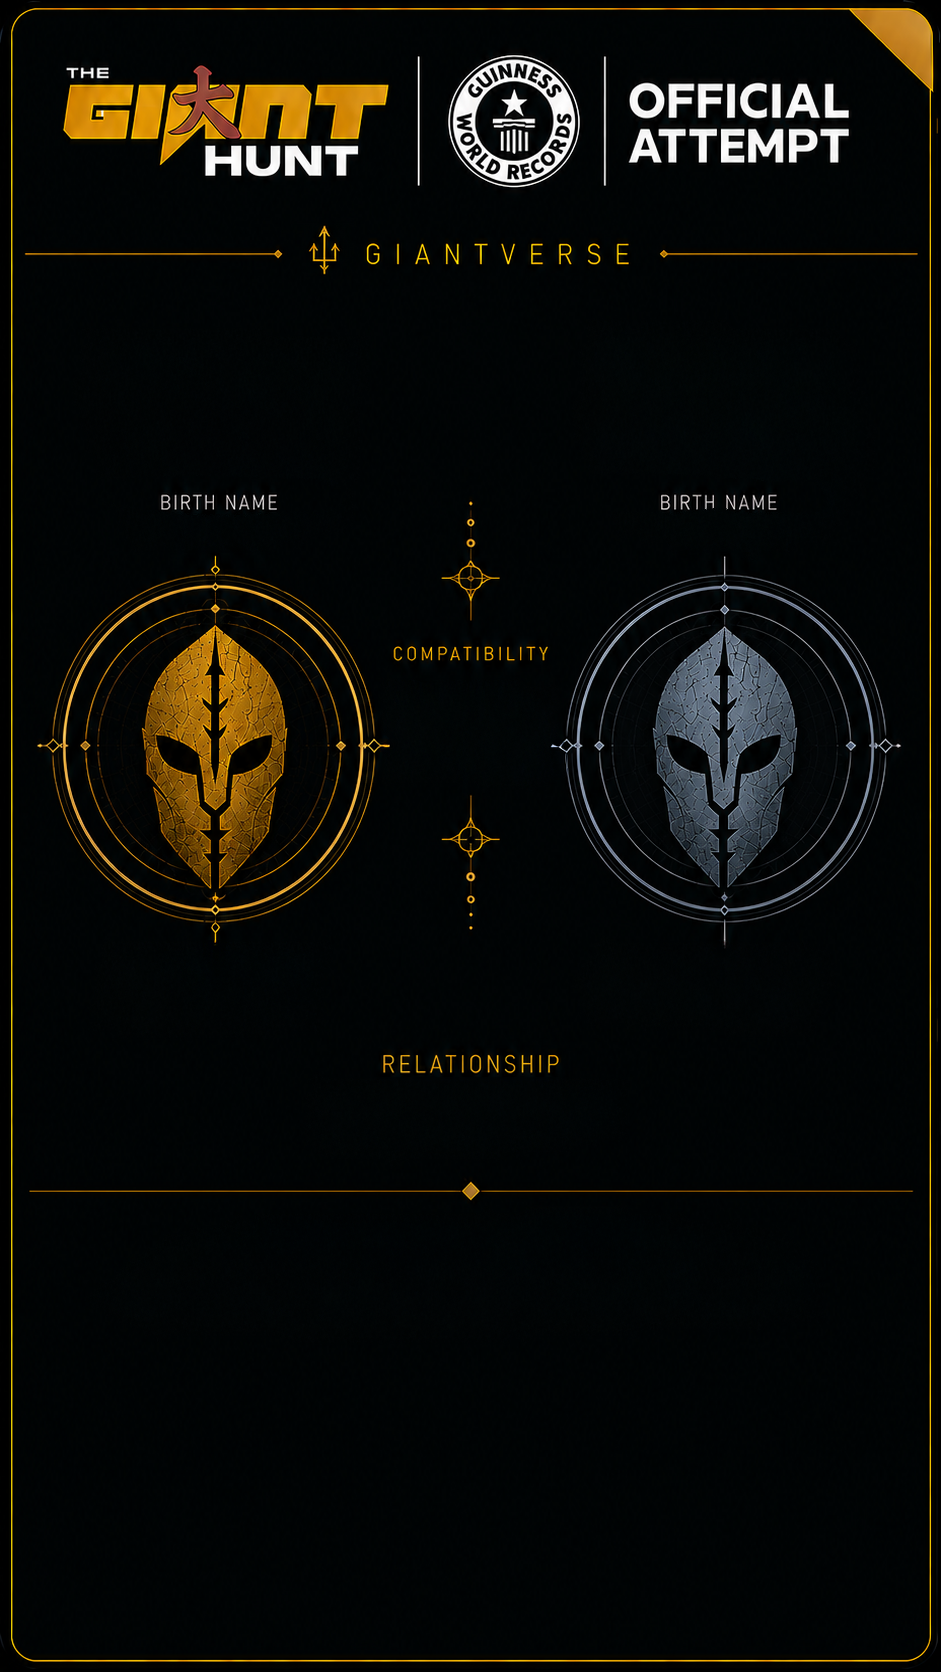
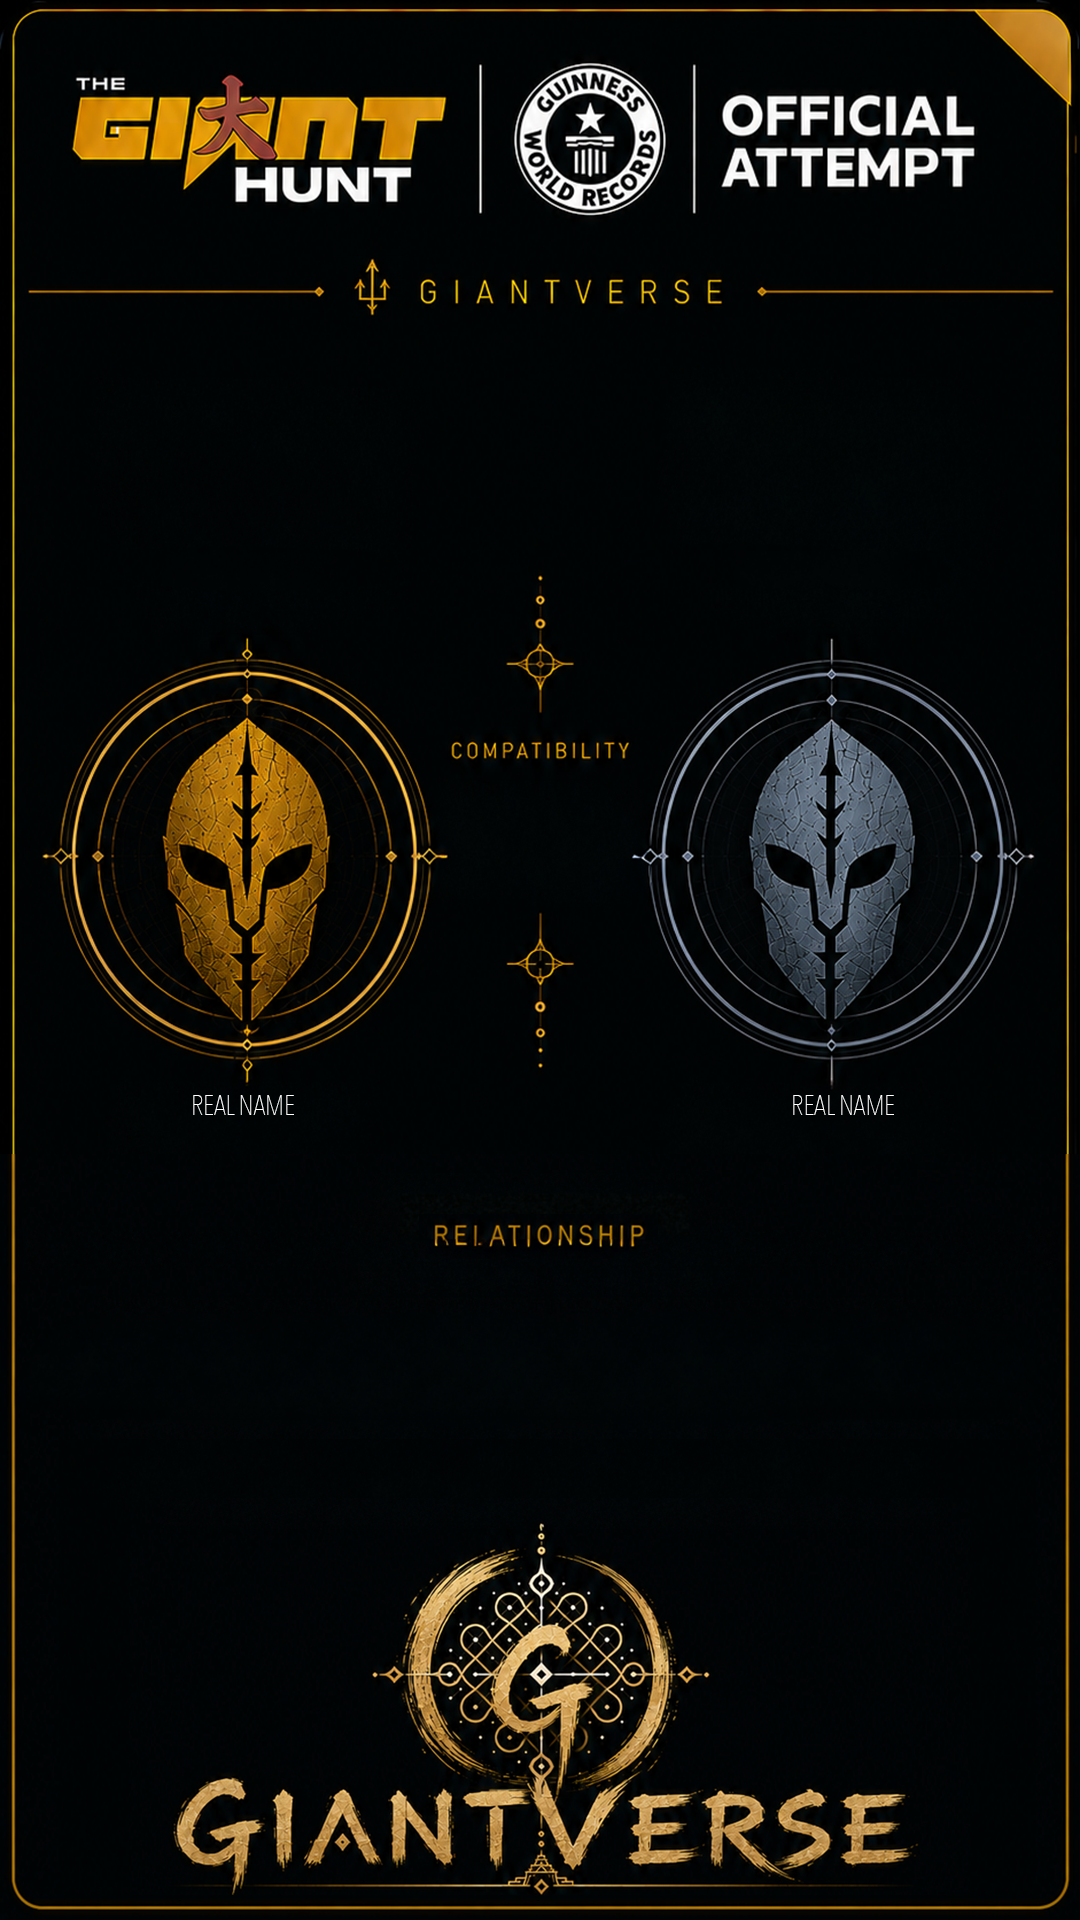
Compatibity Card Update

diff --git a/components/compatibility/CompatibilityShareCard.tsx b/components/compatibility/CompatibilityShareCard.tsx
@@ -3,11 +3,12 @@
 // CompatibilityShareCard — canvas-rendered share card for a Compatibility
 // Checker result, drawn on top of the official "Compatibility card_template.png"
 // (two portrait busts — gold for Side A, silver for Side B — under a shared
-// Giant Hunt / Guinness World Records header). Field layout below is
-// pixel-scanned from that 941x1672 template, mirroring the calibration
+// Giant Hunt / Guinness World Records header, with a decorative Giantverse
+// emblem filling the bottom ~23% of the card). Field layout below is
+// pixel-scanned from that 1080x1920 template, mirroring the calibration
 // approach used by src/lib/card-generator.ts for the identity card.
 
-import { useCallback, useState } from "react";
+import { useEffect, useRef, useState } from "react";
 import type { CompatibilityResult } from "@/engines/compatibility/compatibility.engine";
 
 const GOLD = "#C9A24B";
@@ -21,6 +22,14 @@ const ROLE_COLOR: Record<CompatibilityResult["role"], string> = {
   Romance: "#D97BA0",
   Rival: "#D98E3B",
   Villain: "#B4543F",
+};
+
+const ROLE_PLURAL: Record<CompatibilityResult["role"], string> = {
+  Ally: "Allies",
+  Mentor: "Mentors",
+  Romance: "Romances",
+  Rival: "Rivals",
+  Villain: "Villains",
 };
 
 function loadImage(src: string): Promise<HTMLImageElement | null> {
@@ -44,11 +53,16 @@ function extractBirthName(fullName: string, romaji: string): string {
   return fullName;
 }
 
-async function renderCompatibilityCard(result: CompatibilityResult): Promise<HTMLCanvasElement> {
+// invitedByRealName — when set, Side B is the friend who arrived via a
+// shared invite link, and this is the real name (remembered from the
+// invite link's &name= param) of whoever shared it. Attributed only on
+// Side B's column, since that's the only side that can ever be "someone
+// who was invited" in the current flows.
+async function renderCompatibilityCard(result: CompatibilityResult, invitedByRealName?: string): Promise<HTMLCanvasElement> {
   const canvas = document.createElement("canvas");
   const template = await loadImage("/Compatibility card_template.png");
-  const W = template ? template.naturalWidth : 941;
-  const H = template ? template.naturalHeight : 1672;
+  const W = template ? template.naturalWidth : 1080;
+  const H = template ? template.naturalHeight : 1920;
   canvas.width = W;
   canvas.height = H;
   const ctx = canvas.getContext("2d")!;
@@ -77,38 +91,66 @@ async function renderCompatibilityCard(result: CompatibilityResult): Promise<HTM
   };
 
   // ── COLUMN LAYOUT ─────────────────────────────────────────────────
-  // Left (gold) bust centered at x=23.2%, right (silver) bust at x=76.3%
-  // (pixel-scanned from the "BIRTH NAME" labels baked into the template,
-  // which sit directly above each bust). Both share the same vertical
-  // rhythm: big Legacy Name in the gap above the label, small Birth Name
-  // value just below it.
+  // Left (gold) bust centered at x=22.5%, right (silver) bust at x=78.1%
+  // (pixel-scanned from the "REAL NAME" labels baked into the template,
+  // which now sit directly BELOW each bust — this template dropped the
+  // old "BIRTH NAME"-above-the-bust layout entirely). Big Legacy Name
+  // fills the large gap above the bust; the Real Name value sits just
+  // below the baked-in label.
   const columns = [
-    { x: px(0.2323), name: result.nameA, romaji: result.archetypeA.romajiName, color: GOLD, dim: GOLD_DIM },
-    { x: px(0.7631), name: result.nameB, romaji: result.archetypeB.romajiName, color: SILVER, dim: SILVER_DIM },
+    { x: px(0.225), name: result.nameA, romaji: result.archetypeA.romajiName, color: GOLD, dim: GOLD_DIM, attribution: undefined as string | undefined },
+    { x: px(0.7806), name: result.nameB, romaji: result.archetypeB.romajiName, color: SILVER, dim: SILVER_DIM, attribution: invitedByRealName },
   ];
 
-  const nameTopY = py(0.1513);       // top divider under the "GIANTVERSE" wordmark
-  const labelTopY = py(0.2960);      // top of the baked-in "BIRTH NAME" label
-  const labelBottomY = py(0.3044);   // bottom of that label
-  const bustTopY = py(0.341);        // where the bust art begins
-  const colMaxW = px(0.34);
+  const nameTopY = py(0.1516);        // top divider under the "GIANTVERSE" wordmark
+  const bustTopY = py(0.337);         // where the bust art begins
+  const realNameLabelBottomY = py(0.5802); // bottom of the baked-in "REAL NAME" label
+  const realNameZoneBottomY = py(0.615);   // safe cutoff before the "RELATIONSHIP" label
+  const colMaxW = px(0.32);
 
   for (const col of columns) {
-    // Legacy Name — large, vertically centered in the gap above the label.
+    // "GIANTVERSE NAME" — small field label (matches the template's own
+    // field-label styling) so the big name isn't just unlabeled decoration
+    // under the wordmark divider.
+    const gvLabelZoneH = (bustTopY - nameTopY) * 0.15;
+    ctx.font = `600 ${Math.round(W * 0.0115)}px Helvetica, Arial`;
+    ctx.fillStyle = "#8A8478";
+    ctx.fillText("GIANTVERSE NAME", col.x, nameTopY + gvLabelZoneH * 0.72);
+
+    // Legacy Name — large, vertically centered in the remaining gap above the bust.
+    const legacyZoneTop = nameTopY + gvLabelZoneH;
     const legacyFont = fitFont(col.name.toUpperCase(), Math.round(W * 0.052), colMaxW, "bold");
     const capHeight = legacyFont * 0.72;
-    const baselineY = nameTopY + (labelTopY - nameTopY + capHeight) / 2;
+    const baselineY = legacyZoneTop + (bustTopY - legacyZoneTop + capHeight) / 2;
     ctx.font = `bold ${legacyFont}px Georgia, serif`;
     ctx.fillStyle = col.color;
     ctx.fillText(col.name.toUpperCase(), col.x, baselineY);
 
-    // Birth Name — small, real-world first name, between the label and bust art.
-    const birthName = extractBirthName(col.name, col.romaji);
-    const birthFont = fitFont(birthName.toUpperCase(), Math.round(W * 0.022), colMaxW, "");
-    const birthY = labelBottomY + (bustTopY - labelBottomY) * 0.62;
-    ctx.font = `${birthFont}px Helvetica, Arial`;
-    ctx.fillStyle = col.dim;
-    ctx.fillText(birthName.toUpperCase(), col.x, birthY);
+    // Real Name — the actual first name, below the baked-in "REAL NAME"
+    // label. When this column belongs to whoever was invited, a second,
+    // smaller line credits who invited them — both compressed to fit
+    // ahead of the "RELATIONSHIP" section.
+    const realName = extractBirthName(col.name, col.romaji);
+    if (col.attribution) {
+      const nameFont = fitFont(realName.toUpperCase(), Math.round(W * 0.019), colMaxW, "");
+      const nameY = realNameLabelBottomY + (realNameZoneBottomY - realNameLabelBottomY) * 0.42;
+      ctx.font = `${nameFont}px Helvetica, Arial`;
+      ctx.fillStyle = col.dim;
+      ctx.fillText(realName.toUpperCase(), col.x, nameY);
+
+      const attrText = `Invited by ${col.attribution}`;
+      const attrFont = fitFont(attrText, Math.round(W * 0.0135), colMaxW, "italic");
+      const attrY = realNameLabelBottomY + (realNameZoneBottomY - realNameLabelBottomY) * 0.85;
+      ctx.font = `italic ${attrFont}px Georgia, serif`;
+      ctx.fillStyle = col.color;
+      ctx.fillText(attrText, col.x, attrY);
+    } else {
+      const nameFont = fitFont(realName.toUpperCase(), Math.round(W * 0.022), colMaxW, "");
+      const nameY = realNameLabelBottomY + (realNameZoneBottomY - realNameLabelBottomY) * 0.55;
+      ctx.font = `${nameFont}px Helvetica, Arial`;
+      ctx.fillStyle = col.dim;
+      ctx.fillText(realName.toUpperCase(), col.x, nameY);
+    }
   }
 
   // ── COMPATIBILITY % — the gap between the "COMPATIBILITY" label and
@@ -123,34 +165,36 @@ async function renderCompatibilityCard(result: CompatibilityResult): Promise<HTM
   ctx.fillStyle = roleColor;
   ctx.fillText(`${result.percentage}%`, px(0.5), pctBaseline);
 
-  // ── RELATIONSHIP — role, descriptor, mentor/mentee and tagline fill
-  // the blank band below the "RELATIONSHIP" divider (71.5%–99%).
-  let cy = py(0.755);
+  // ── RELATIONSHIP — role, descriptor, mentor/mentee and tagline fill the
+  // band below the "RELATIONSHIP" divider (~65.9%), now much tighter than
+  // before since it has to clear the decorative Giantverse emblem that
+  // fills the bottom ~23% of this template (starts around 76.5%).
+  let cy = py(0.672);
   const contentMaxW = px(0.8);
 
-  ctx.font = `700 ${Math.round(W * 0.075)}px Georgia, serif`;
+  ctx.font = `700 ${Math.round(W * 0.052)}px Georgia, serif`;
   ctx.fillStyle = roleColor;
   ctx.fillText(result.role.toUpperCase(), px(0.5), cy);
-  cy += W * 0.05;
+  cy += W * 0.019;
 
-  ctx.font = `600 ${Math.round(W * 0.028)}px Helvetica, Arial`;
+  ctx.font = `600 ${Math.round(W * 0.018)}px Helvetica, Arial`;
   ctx.fillStyle = "#EFE9DA";
   ctx.fillText(`${result.descriptor} ${result.role}`, px(0.5), cy);
-  cy += W * 0.045;
+  cy += W * 0.015;
 
   if (result.mentor && result.mentee) {
-    ctx.font = `600 ${Math.round(W * 0.022)}px Helvetica, Arial`;
+    ctx.font = `600 ${Math.round(W * 0.013)}px Helvetica, Arial`;
     ctx.fillStyle = roleColor;
     ctx.fillText(`${result.mentor.name} is the Mentor · ${result.mentee.name} is the Mentee`, px(0.5), cy);
-    cy += W * 0.04;
+    cy += W * 0.014;
   }
 
-  cy += W * 0.015;
-  ctx.font = `${Math.round(W * 0.024)}px Georgia, serif`;
+  cy += W * 0.008;
+  ctx.font = `${Math.round(W * 0.013)}px Georgia, serif`;
   ctx.fillStyle = "#8A8478";
   const words = result.tagline.split(" ");
   let line = "";
-  const lineH = W * 0.032;
+  const lineH = W * 0.018;
   for (const word of words) {
     const test = line ? `${line} ${word}` : word;
     if (ctx.measureText(test).width > contentMaxW && line) {
@@ -163,50 +207,73 @@ async function renderCompatibilityCard(result: CompatibilityResult): Promise<HTM
   }
   if (line) ctx.fillText(line, px(0.5), cy);
 
-  // ── FOOTER BRAND ──────────────────────────────────────────────────
-  ctx.font = `600 ${Math.round(W * 0.021)}px Georgia, serif`;
-  ctx.fillStyle = GOLD;
-  ctx.fillText("giantverse.com", px(0.5), py(0.975));
-
   return canvas;
 }
 
-export function CompatibilityShareCard({ result }: { result: CompatibilityResult }) {
-  const [busy, setBusy] = useState(false);
+export function CompatibilityShareCard({ result, invitedByRealName }: { result: CompatibilityResult; invitedByRealName?: string }) {
   const [preview, setPreview] = useState<string | null>(null);
+  const [linkCopied, setLinkCopied] = useState(false);
+  const canvasRef = useRef<HTMLCanvasElement | null>(null);
 
-  const generate = useCallback(async () => {
-    setBusy(true);
-    try {
-      const canvas = await renderCompatibilityCard(result);
+  // Renders as soon as a result exists — the card is the result, not an
+  // optional extra step behind a button.
+  useEffect(() => {
+    let cancelled = false;
+    setPreview(null);
+    canvasRef.current = null;
+    renderCompatibilityCard(result, invitedByRealName).then((canvas) => {
+      if (cancelled) return;
+      canvasRef.current = canvas;
       setPreview(canvas.toDataURL("image/png"));
-      canvas.toBlob((blob) => {
-        if (!blob) return;
-        const url = URL.createObjectURL(blob);
-        const a = document.createElement("a");
-        a.href = url;
-        a.download = `giant-hunt-compatibility-${result.role.toLowerCase()}.png`;
-        a.click();
-        URL.revokeObjectURL(url);
-      }, "image/png");
-    } finally {
-      setBusy(false);
+    });
+    return () => {
+      cancelled = true;
+    };
+  }, [result, invitedByRealName]);
+
+  // Invites whoever "Side B" is to take the survey and get their own
+  // Legacy Name — carries the same ?invite=&name= payload the /ending
+  // invite flow uses, so they land on the personalized compatibility
+  // landing page once they click through.
+  async function handleInviteFriend() {
+    if (typeof window === "undefined") return;
+    const birthNameA = extractBirthName(result.nameA, result.archetypeA.romajiName);
+    const birthNameB = extractBirthName(result.nameB, result.archetypeB.romajiName);
+    const params = new URLSearchParams({ invite: result.nameA, name: birthNameA });
+    const url = `${window.location.origin}/compatibility?${params.toString()}`;
+    const shareText = `Myself ${birthNameA} and ${birthNameB} are found ${ROLE_PLURAL[result.role]} in Giantverse. I am curious how we are related in Giantverse. Take this survey to get your Giantverse identity. It is Fun and accurate.`;
+    if (navigator.share) {
+      try {
+        await navigator.share({ title: "Giant Hunt Compatibility", text: shareText, url });
+        return;
+      } catch {
+        // user cancelled the share sheet — fall through to clipboard copy
+      }
     }
-  }, [result]);
+    try {
+      await navigator.clipboard.writeText(`${shareText}\n${url}`);
+      setLinkCopied(true);
+      setTimeout(() => setLinkCopied(false), 2500);
+    } catch {
+      // clipboard unavailable — nothing more we can do without a fallback UI
+    }
+  }
 
   return (
     <div className="txt-center">
-      {preview && (
+      {preview ? (
         // eslint-disable-next-line @next/next/no-img-element
         <img
           src={preview}
           alt="Compatibility share card preview"
           className="m-auto mb-3"
-          style={{ maxWidth: 220, borderRadius: 8, border: "1px solid #3a2f12" }}
+          style={{ width: "100%", maxWidth: 460, borderRadius: 8, border: "1px solid #3a2f12" }}
         />
+      ) : (
+        <p className="f-12 mb-3" style={{ color: "#6E695F" }}>Rendering your card…</p>
       )}
-      <button type="button" className="btn bdr-rds2" onClick={generate} disabled={busy} style={{ cursor: busy ? "wait" : "pointer" }}>
-        {busy ? "Rendering…" : "⬇ Share This Result"}
+      <button type="button" className="btn bdr-rds2" onClick={handleInviteFriend}>
+        {linkCopied ? "✓ Copied!" : "🔗 Invite Friend"}
       </button>
     </div>
   );

diff --git a/components/compatibility/CompatibilityChecker.tsx b/components/compatibility/CompatibilityChecker.tsx
@@ -26,6 +26,17 @@ import { useInviteStore } from "@/stores/invite.store";
 import { useSessionStore } from "@/stores/session.store";
 import { CompatibilityShareCard } from "./CompatibilityShareCard";
 
+// Some share targets (notably how certain messaging apps merge the Web
+// Share API's text and url fields before the link is opened) can corrupt
+// the "name" param into a long run-on string. A real first name is short
+// and plain — anything longer or sentence-shaped falls back to the Legacy
+// Name instead of rendering garbage as the page's headline.
+function sanitizeRealName(raw: string): string | undefined {
+  const trimmed = raw.trim();
+  if (!trimmed || trimmed.length > 30 || /[.:\n]/.test(trimmed)) return undefined;
+  return trimmed;
+}
+
 // Splits a full Legacy Name ("Teyuka Kanryō") into its Birth Name and
 // archetype, so an invite link's inviter can be shown/locked as Side A.
 function parseLegacyName(fullName: string): { birthName: string; archetypeId: string } | null {
@@ -35,22 +46,6 @@ function parseLegacyName(fullName: string): { birthName: string; archetypeId: st
   const birthName = tokens.slice(0, -1).join(" ") || tokens[0];
   return { birthName, archetypeId: archetype.id };
 }
-
-const ROLE_COLOR: Record<CompatibilityResult["role"], string> = {
-  Ally: "#C9A24B",
-  Mentor: "#7B8FA3",
-  Romance: "#D97BA0",
-  Rival: "#D98E3B",
-  Villain: "#B4543F",
-};
-
-const ROLE_ICON: Record<CompatibilityResult["role"], string> = {
-  Ally: "🤝",
-  Mentor: "🧭",
-  Romance: "💫",
-  Rival: "⚔️",
-  Villain: "◆",
-};
 
 const ARCHETYPE_OPTIONS = Object.values(ARCHETYPE_DEFINITIONS).sort((a, b) => a.label.localeCompare(b.label));
 
@@ -85,7 +80,7 @@ export function CompatibilityChecker() {
     setPending({
       inviterName: decoded,
       inviterArchetypeLabel: archetype.label,
-      inviterRealName: realName ? decodeURIComponent(realName) : undefined,
+      inviterRealName: realName ? sanitizeRealName(decodeURIComponent(realName)) : undefined,
     });
   }, [searchParams, pending, setPending]);
 
@@ -147,11 +142,11 @@ export function CompatibilityChecker() {
             <div className="txt-center mb-5">
               <p className="f-10 txt-thm-clr-6 txt-upp letter-spacing2 mb-1">You&apos;ve Been Invited</p>
               <h1 className="h2 fw-600 mb-3" style={{ color: "#EFE9DA", fontFamily: "Georgia, serif" }}>
-                {inviterDisplayName}{" "}wants to know how you&apos;re related to them in the Giantverse
+                {inviterDisplayName}{" "}wants to know your Giantverse connection
               </h1>
               <p className="mxw-450 m-auto f-13 txt-thm-clr-70-2 line-ht-20 mb-4">
-                If you already have a Giantverse identity, enter your full name here. Otherwise, create one by
-                taking this survey — it&apos;s fun!
+                Already have a Giantverse identity? Enter it below to check instantly. New here? Take the short
+                survey to create one — it&apos;s fun!
               </p>
               <button type="button" className="btn bdr-rds2 me-2" onClick={() => router.push("/birth")}>
                 Take the Survey
@@ -253,34 +248,8 @@ export function CompatibilityChecker() {
 
           {displayResult && (
             <div className="txt-center">
-              <div
-                className="wht-cont p-4 mb-4"
-                style={{ border: `1px solid ${ROLE_COLOR[displayResult.role]}` }}
-              >
-                <p className="f-12 txt-thm-clr-70-2 mb-1">
-                  {displayResult.archetypeA.label} ({displayResult.archetypeA.romajiName}) <span style={{ color: "#6E695F" }}>×</span>{" "}
-                  {displayResult.archetypeB.label} ({displayResult.archetypeB.romajiName})
-                </p>
-
-                <p style={{ fontSize: 40, margin: "12px 0 4px" }}>{ROLE_ICON[displayResult.role]}</p>
-                <h2 className="serif" style={{ color: ROLE_COLOR[displayResult.role], fontFamily: "Georgia, serif", fontSize: 34, margin: 0 }}>
-                  {displayResult.role}
-                </h2>
-                <p className="f-14 fw-700 mt-1" style={{ color: "#EFE9DA" }}>
-                  {displayResult.percentage}% — {displayResult.descriptor} {displayResult.role}
-                </p>
-
-                {displayResult.mentor && displayResult.mentee && (
-                  <p className="f-12 mt-2" style={{ color: ROLE_COLOR[displayResult.role] }}>
-                    {displayResult.mentor.name} is the Mentor · {displayResult.mentee.name} is the Mentee
-                  </p>
-                )}
-
-                <p className="f-13 txt-thm-clr-70-2 line-ht-20 mt-3 mxw-385 m-auto">{displayResult.tagline}</p>
-              </div>
-
               <div className="mb-4">
-                <CompatibilityShareCard result={displayResult} />
+                <CompatibilityShareCard result={displayResult} invitedByRealName={pending?.inviterRealName} />
               </div>
 
               <button type="button" className="btn-outline bdr-rds2" onClick={handleReset}>

diff --git a/components/experience/DrawingInvitation.tsx b/components/experience/DrawingInvitation.tsx
@@ -34,7 +34,7 @@ export function DrawingInvitation() {
     const params = new URLSearchParams({ invite: legacyName });
     if (firstName) params.set("name", firstName);
     const url = `${window.location.origin}/compatibility?${params.toString()}`;
-    const shareText = `I just became ${legacyName} in the Giantverse. Reveal your own Legacy Name and see how we match up:`;
+    const shareText = `Check your Giantverse connection with ${firstName || legacyName}:`;
     if (navigator.share) {
       try {
         await navigator.share({ title: "Giant Hunt Compatibility", text: shareText, url });